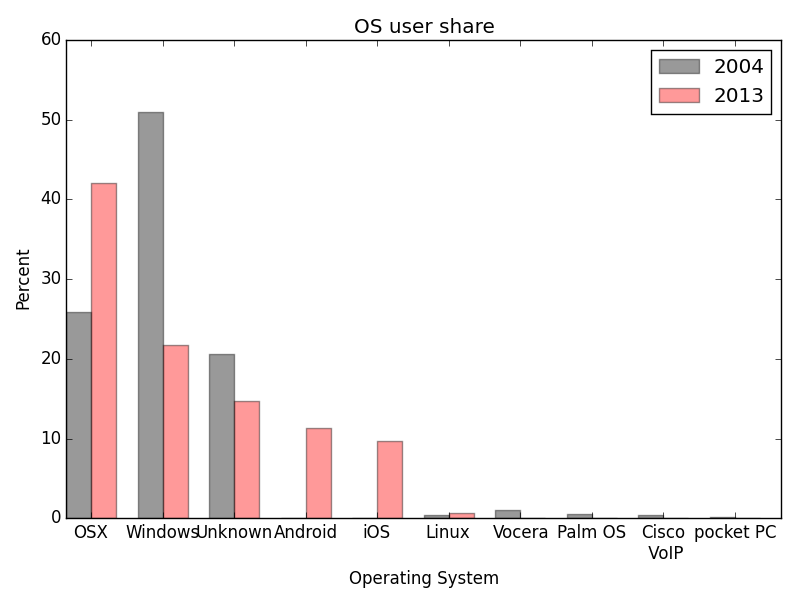
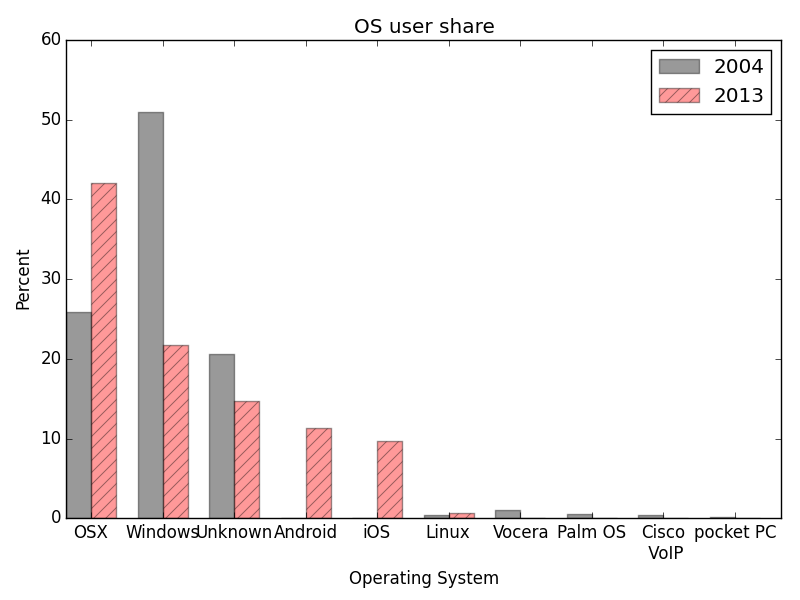
made OS graph viewable on black/white

diff --git a/graphs/os.py b/graphs/os.py
@@ -30,7 +30,8 @@ rects2 = plt.bar(index + bar_width, new, bar_width,
                  alpha=opacity,
                  color='red',
                  error_kw=error_config,
-                 label='2013')
+                 label='2013',
+                 hatch="//")
 
 plt.xlabel('Operating System')
 plt.ylabel('Percent')
